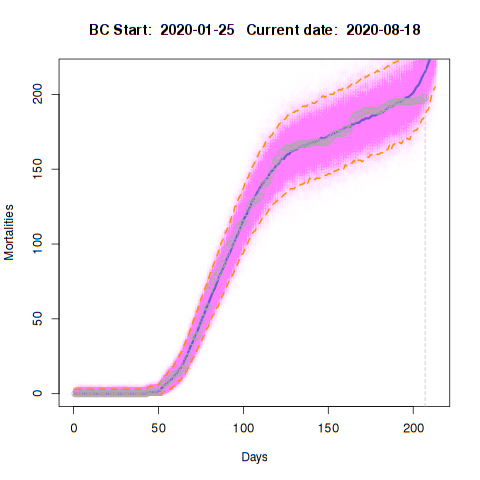
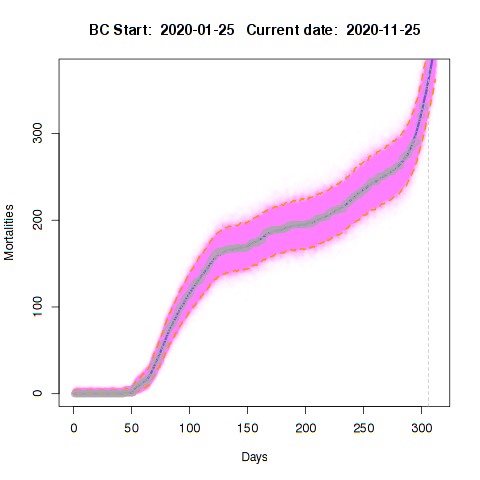
update due to new outbreaks

diff --git a/README.md b/README.md
@@ -1,7 +1,7 @@
 
 ---
 
-# NOTE: As of 1 June 2020, I am reducing the frequency of updates (except for Nova Scotia).
+# Updates have restarted due to the current outbreak in Nova Scotia.
 
 ---
 
